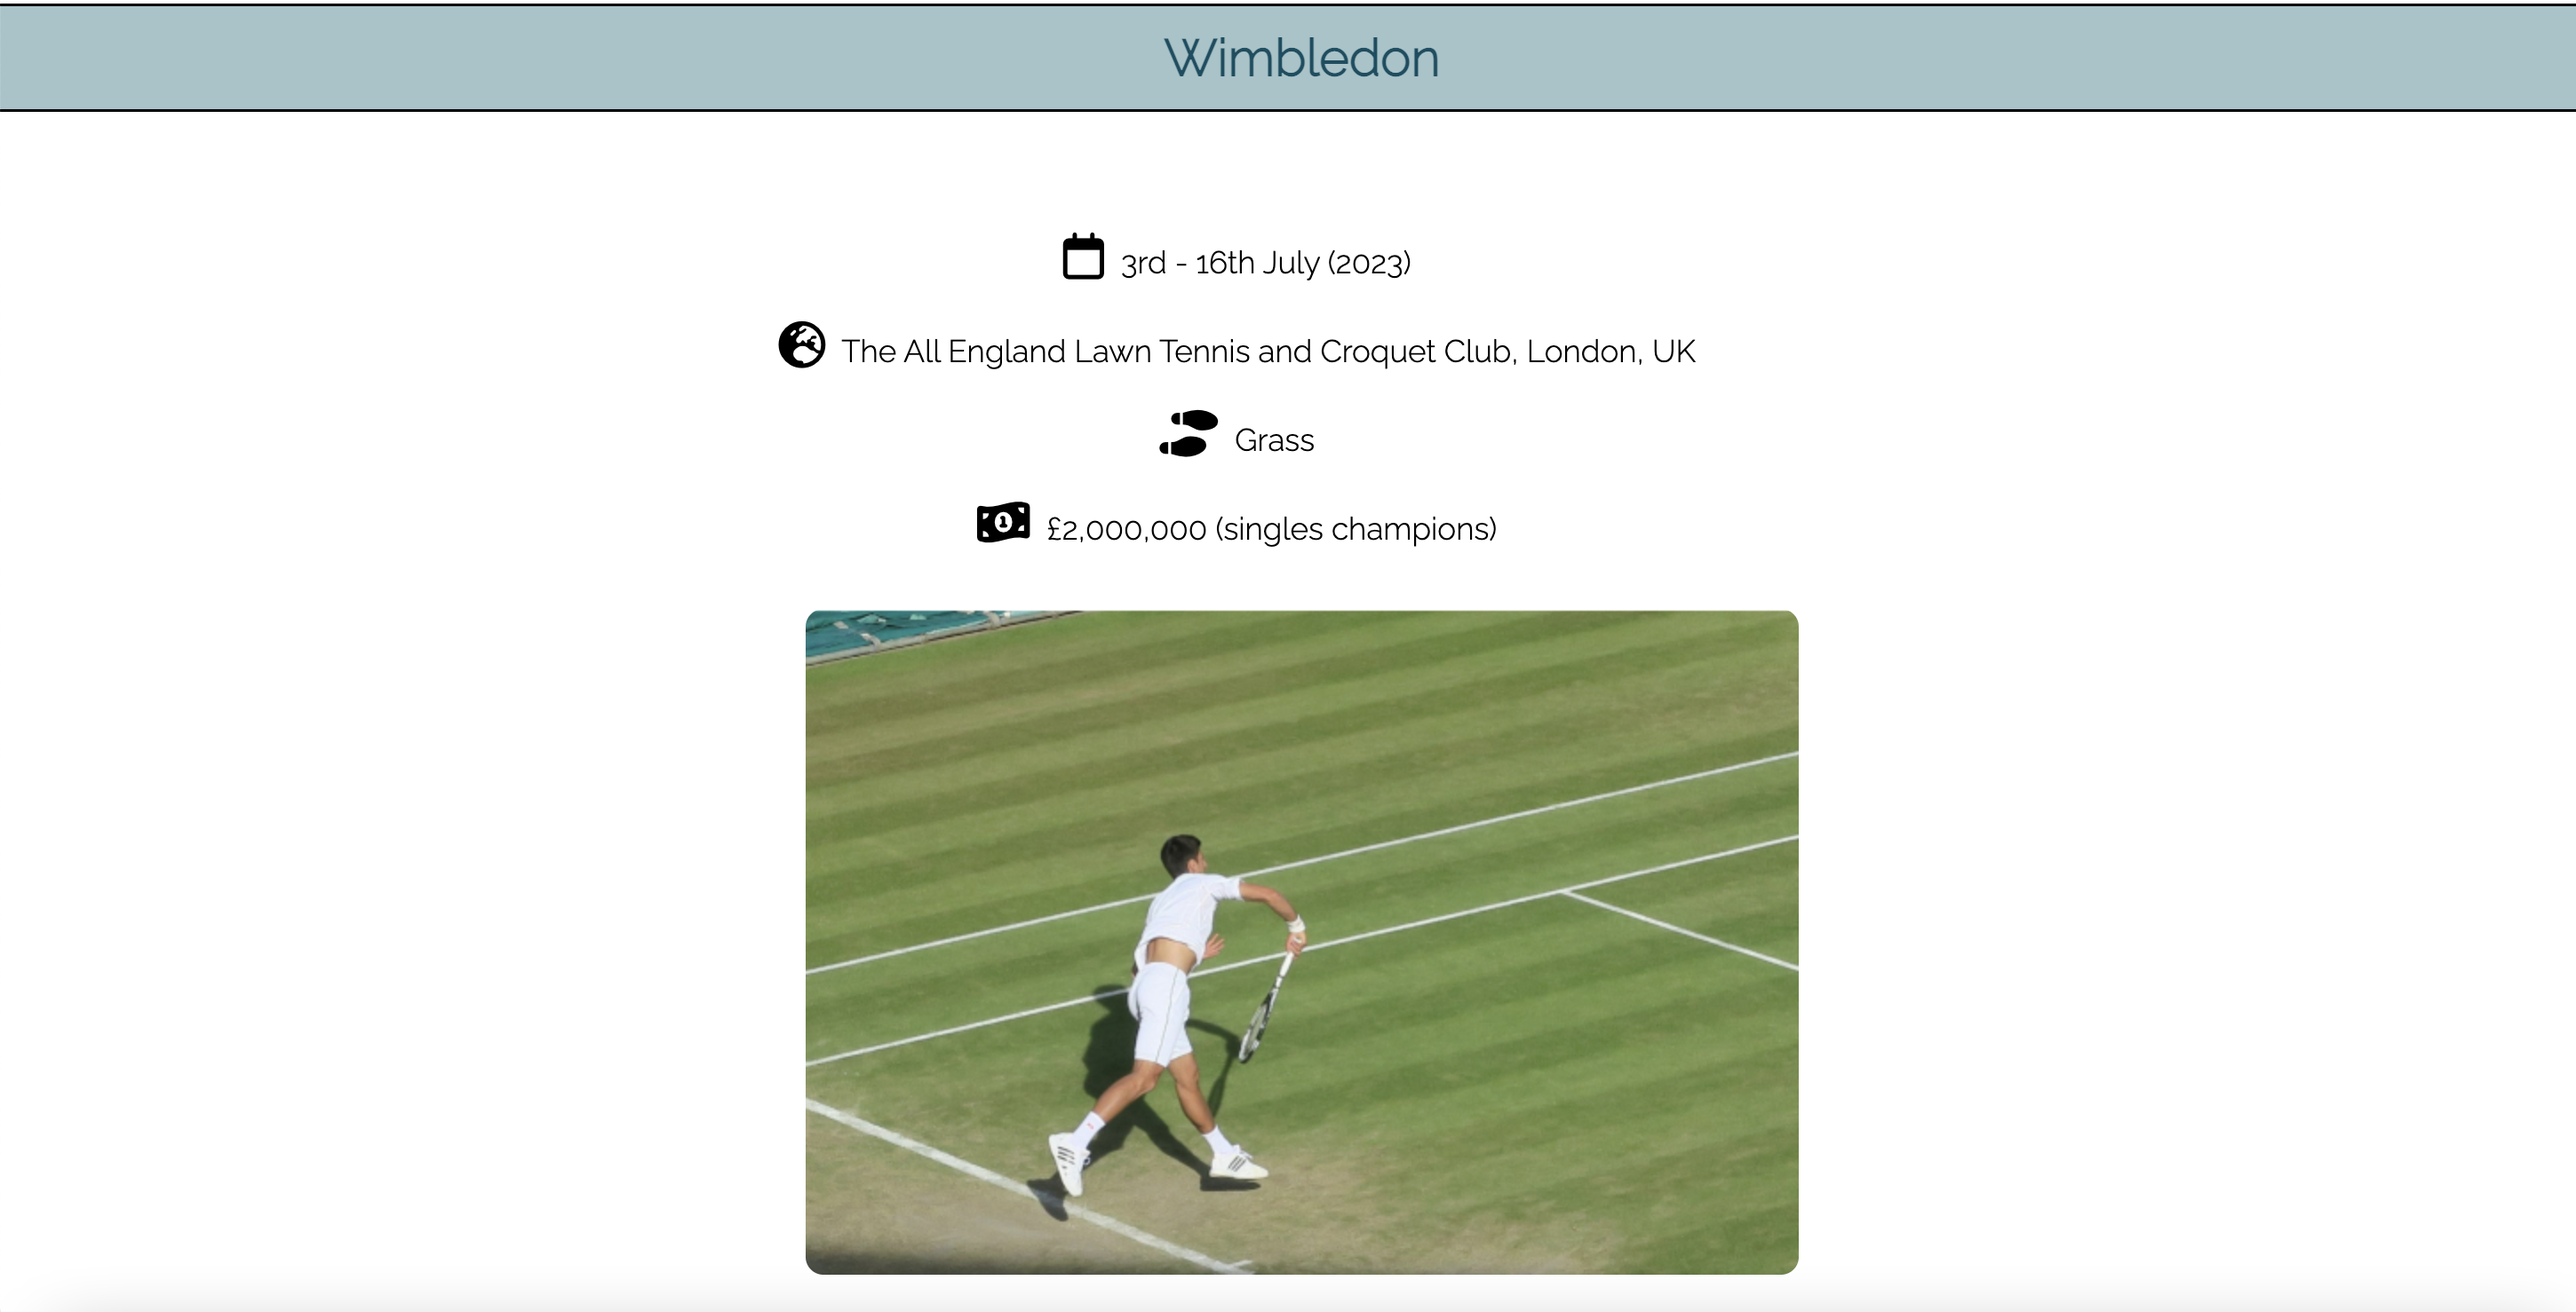
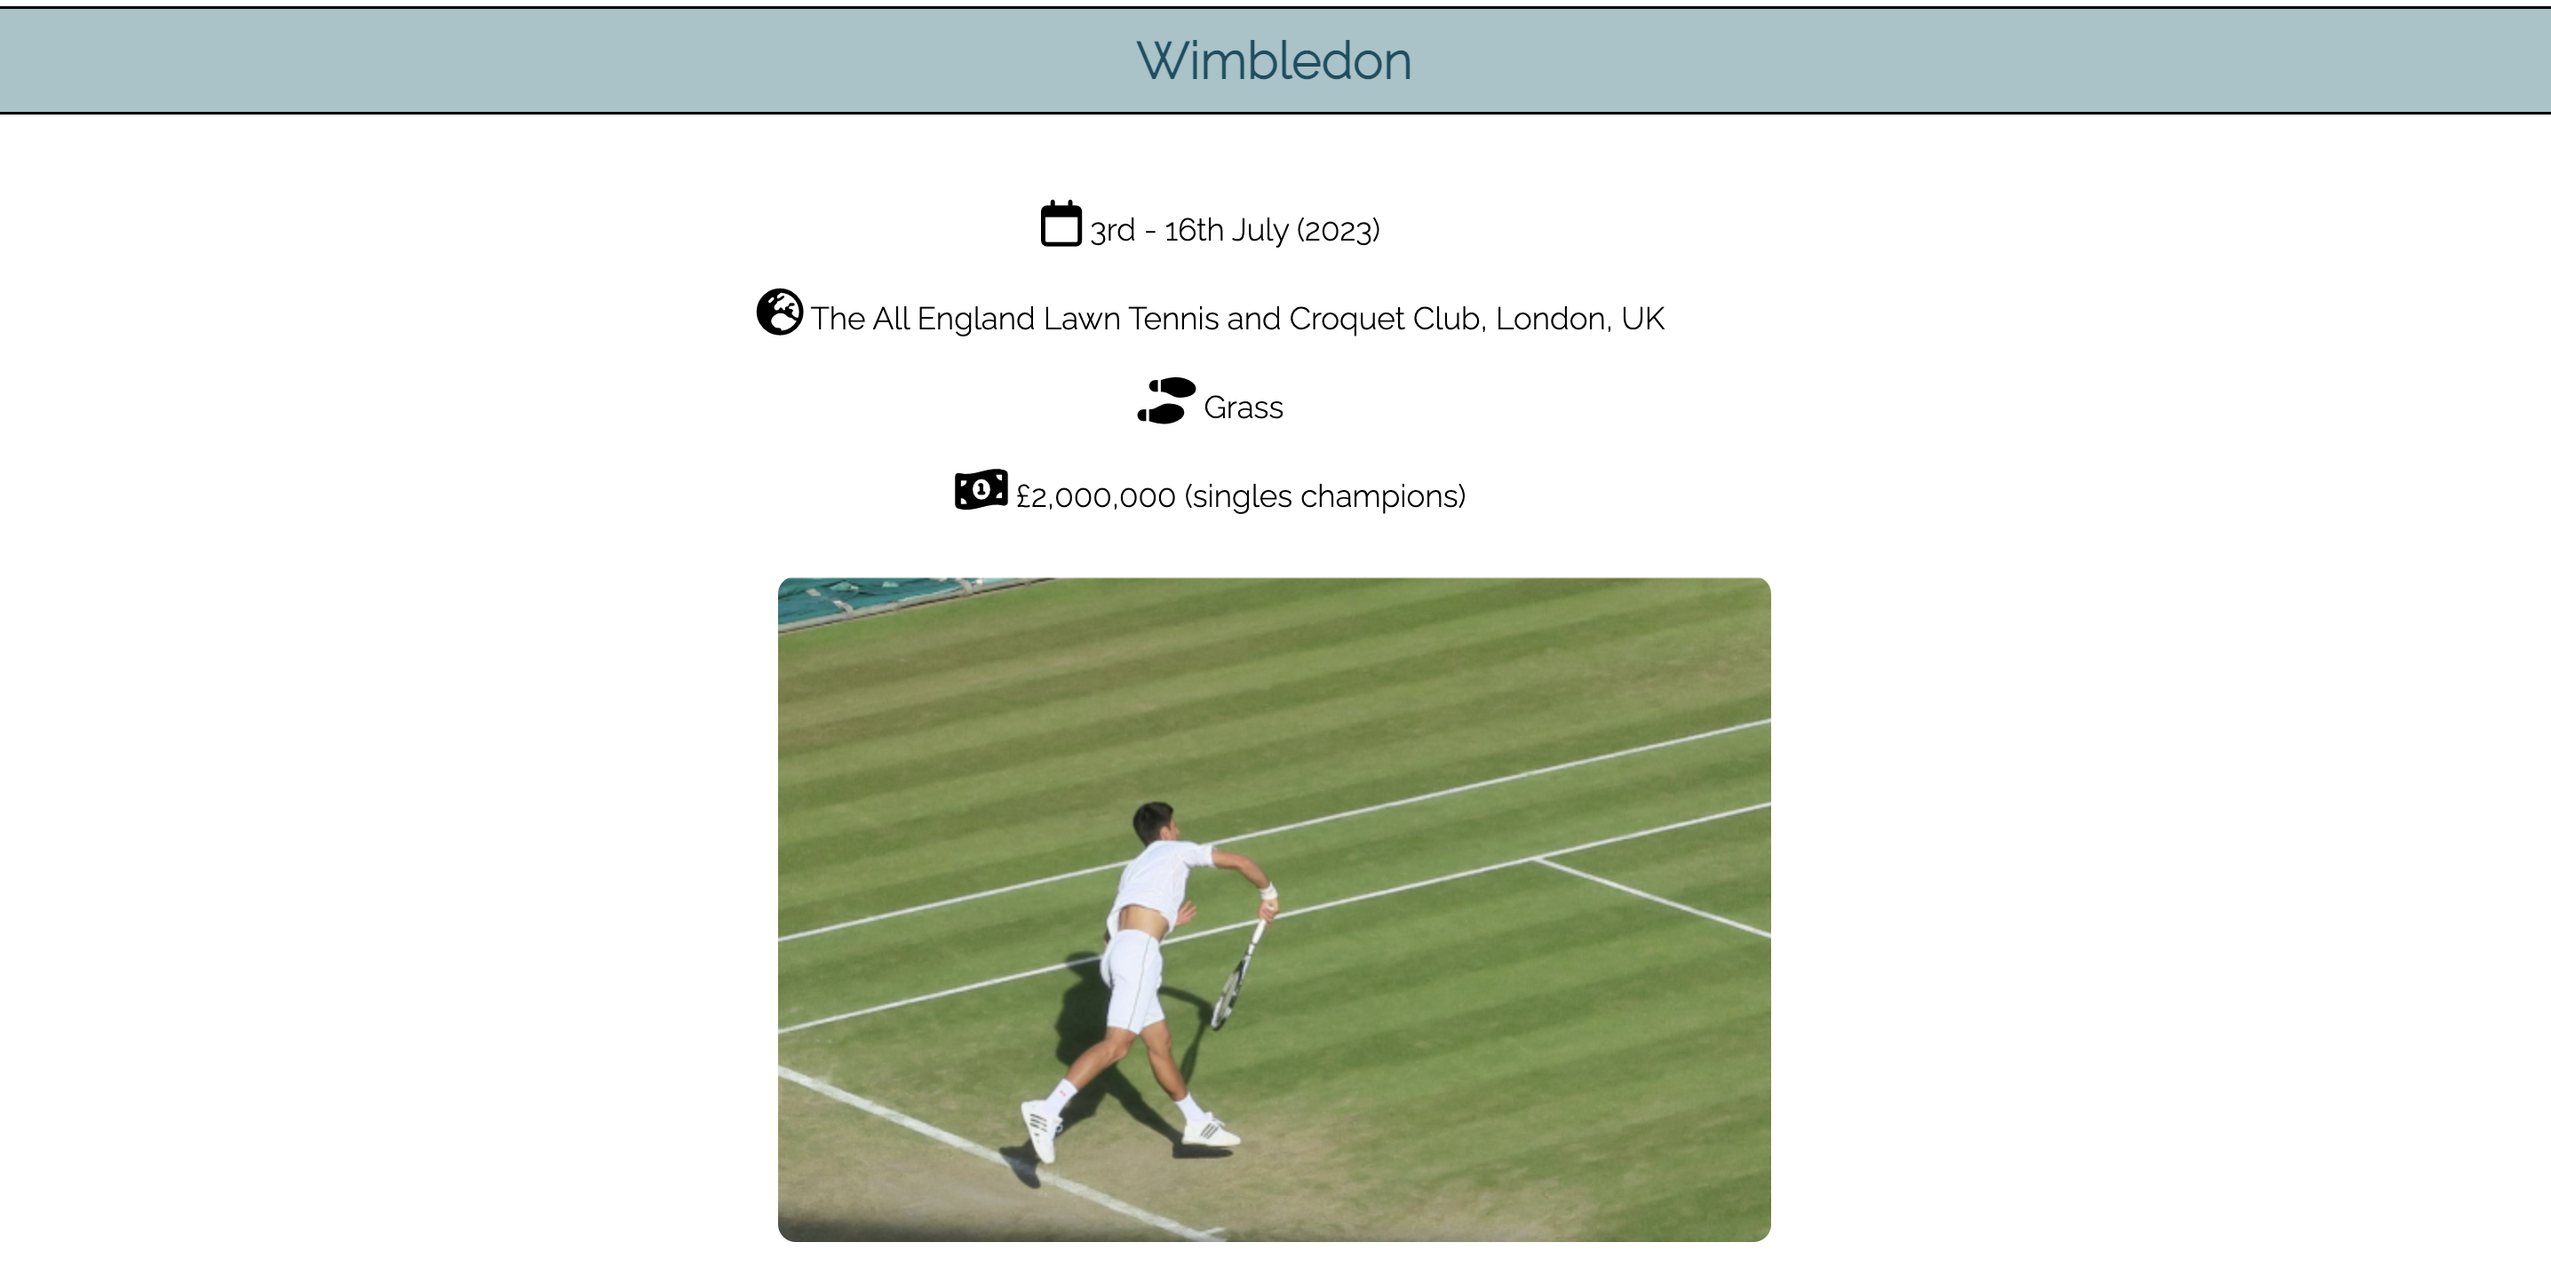
update screenshot in readme

diff --git a/assets/css/style.css b/assets/css/style.css
@@ -366,7 +366,7 @@ h5
 {
     background-color: #a2c4c9;
     border-top: 1px solid black;
-    border-bottom: 1px solid black;
+    border-bottom: 1.5px solid black;
     width: 100%;
     height: 44px;
     padding-top: 7px;
